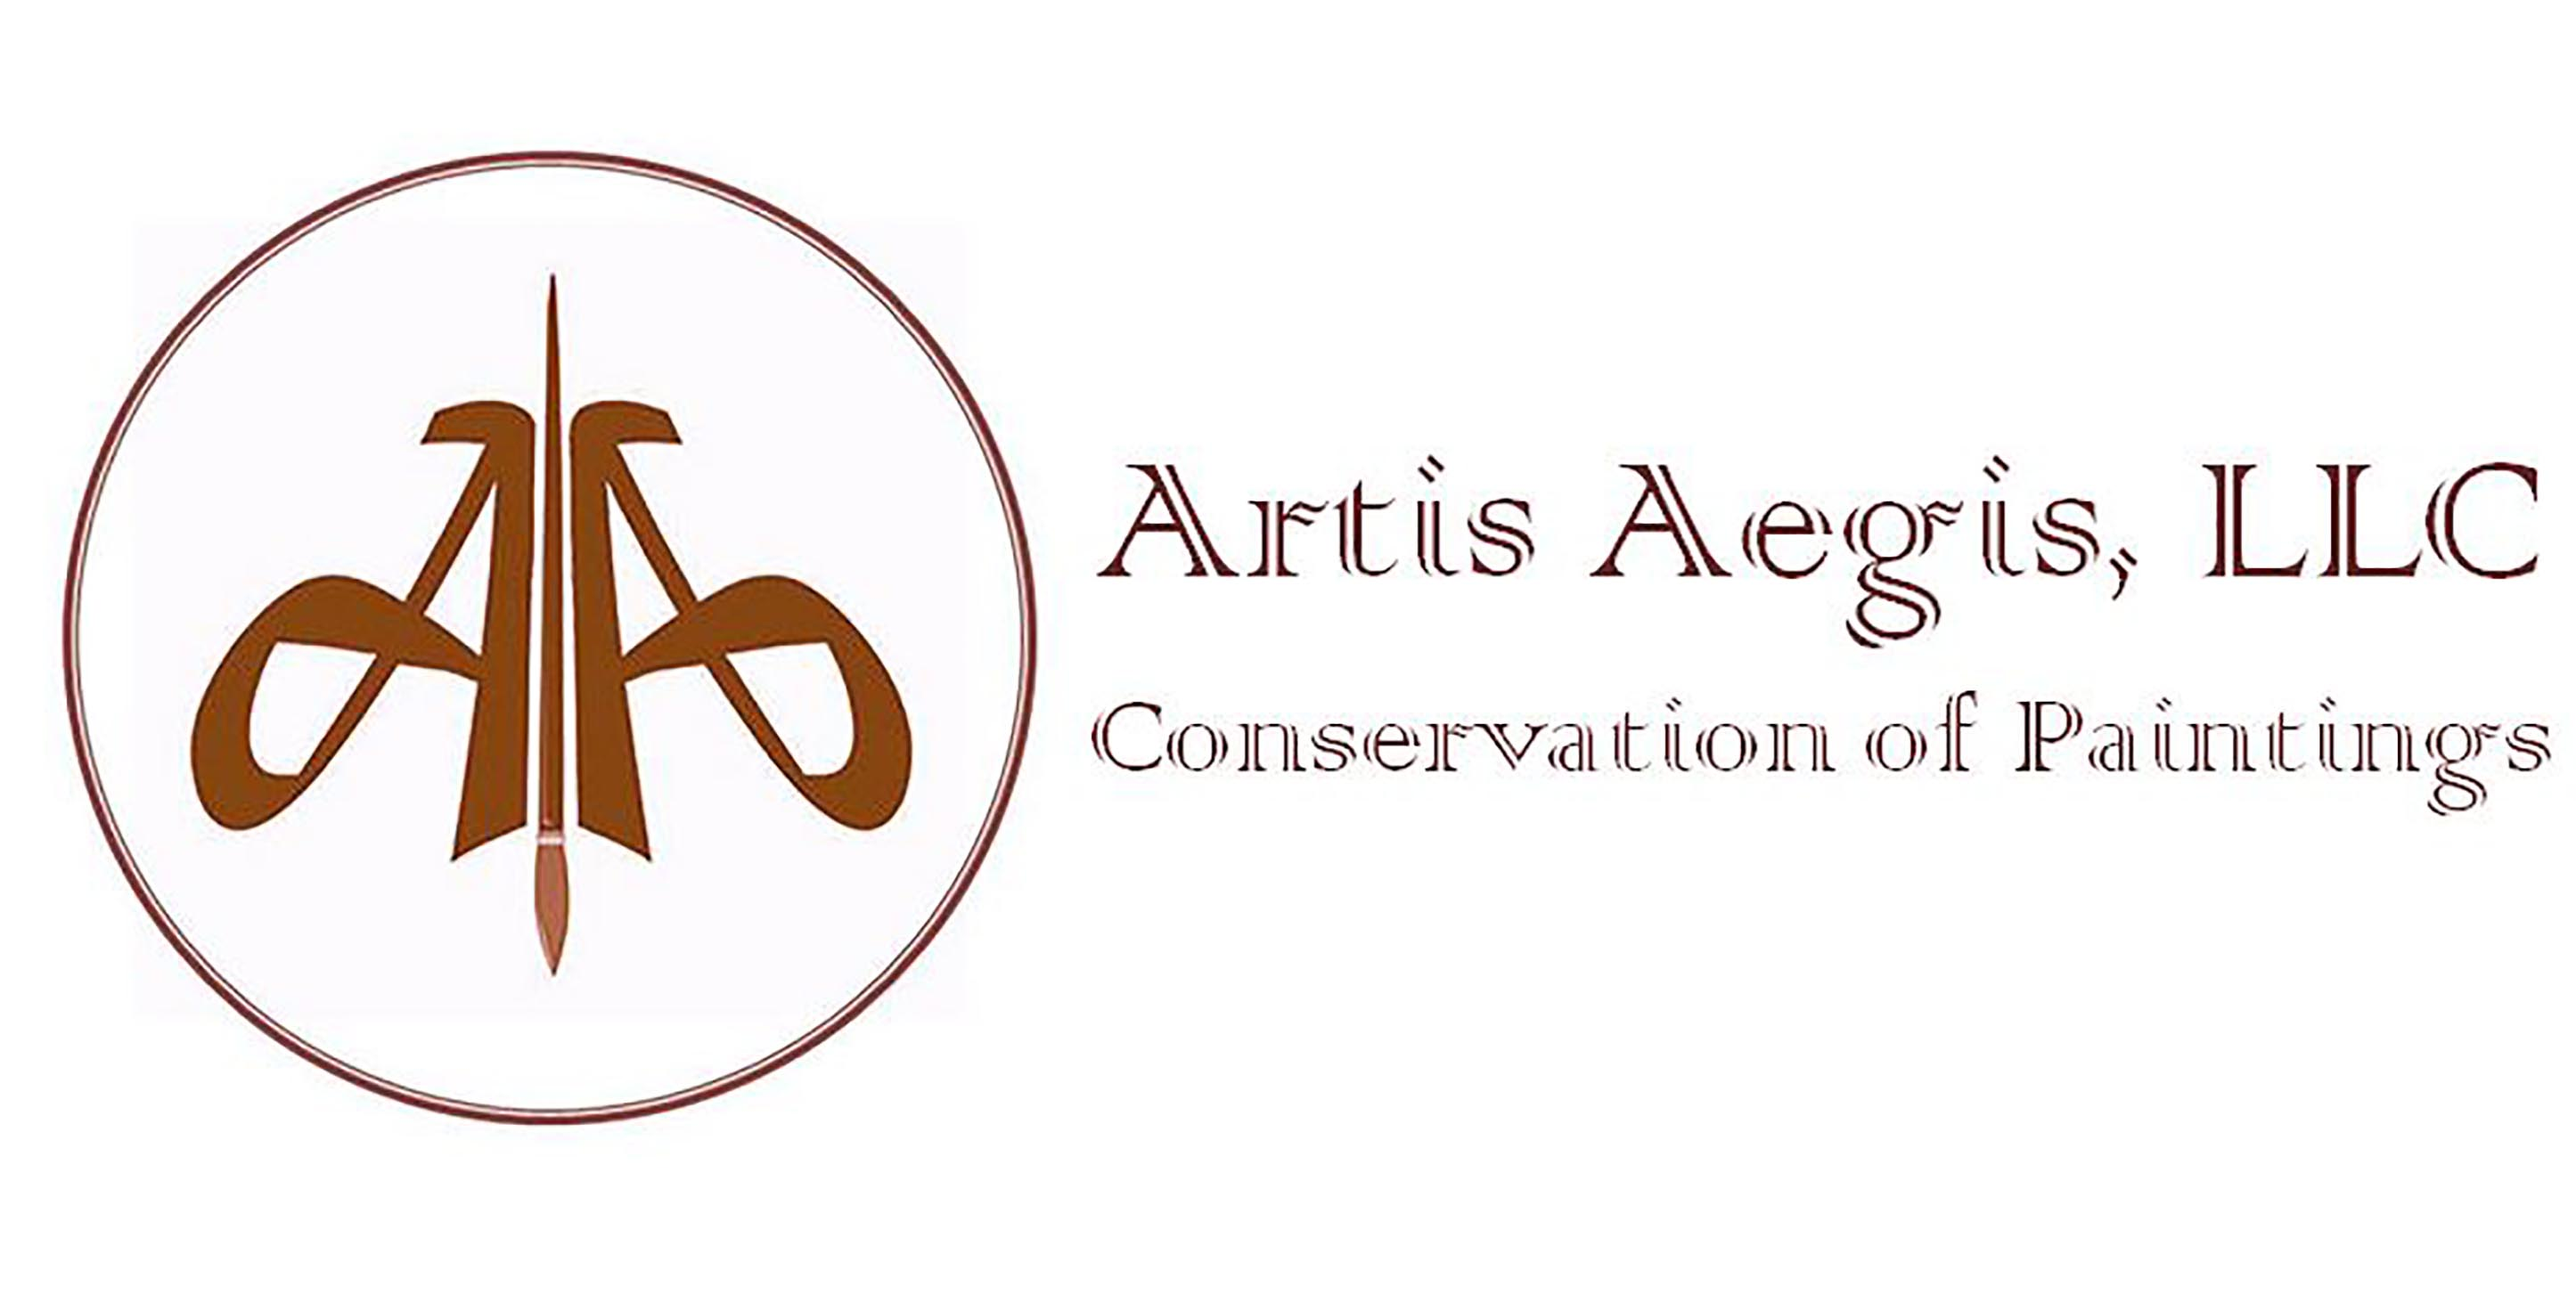
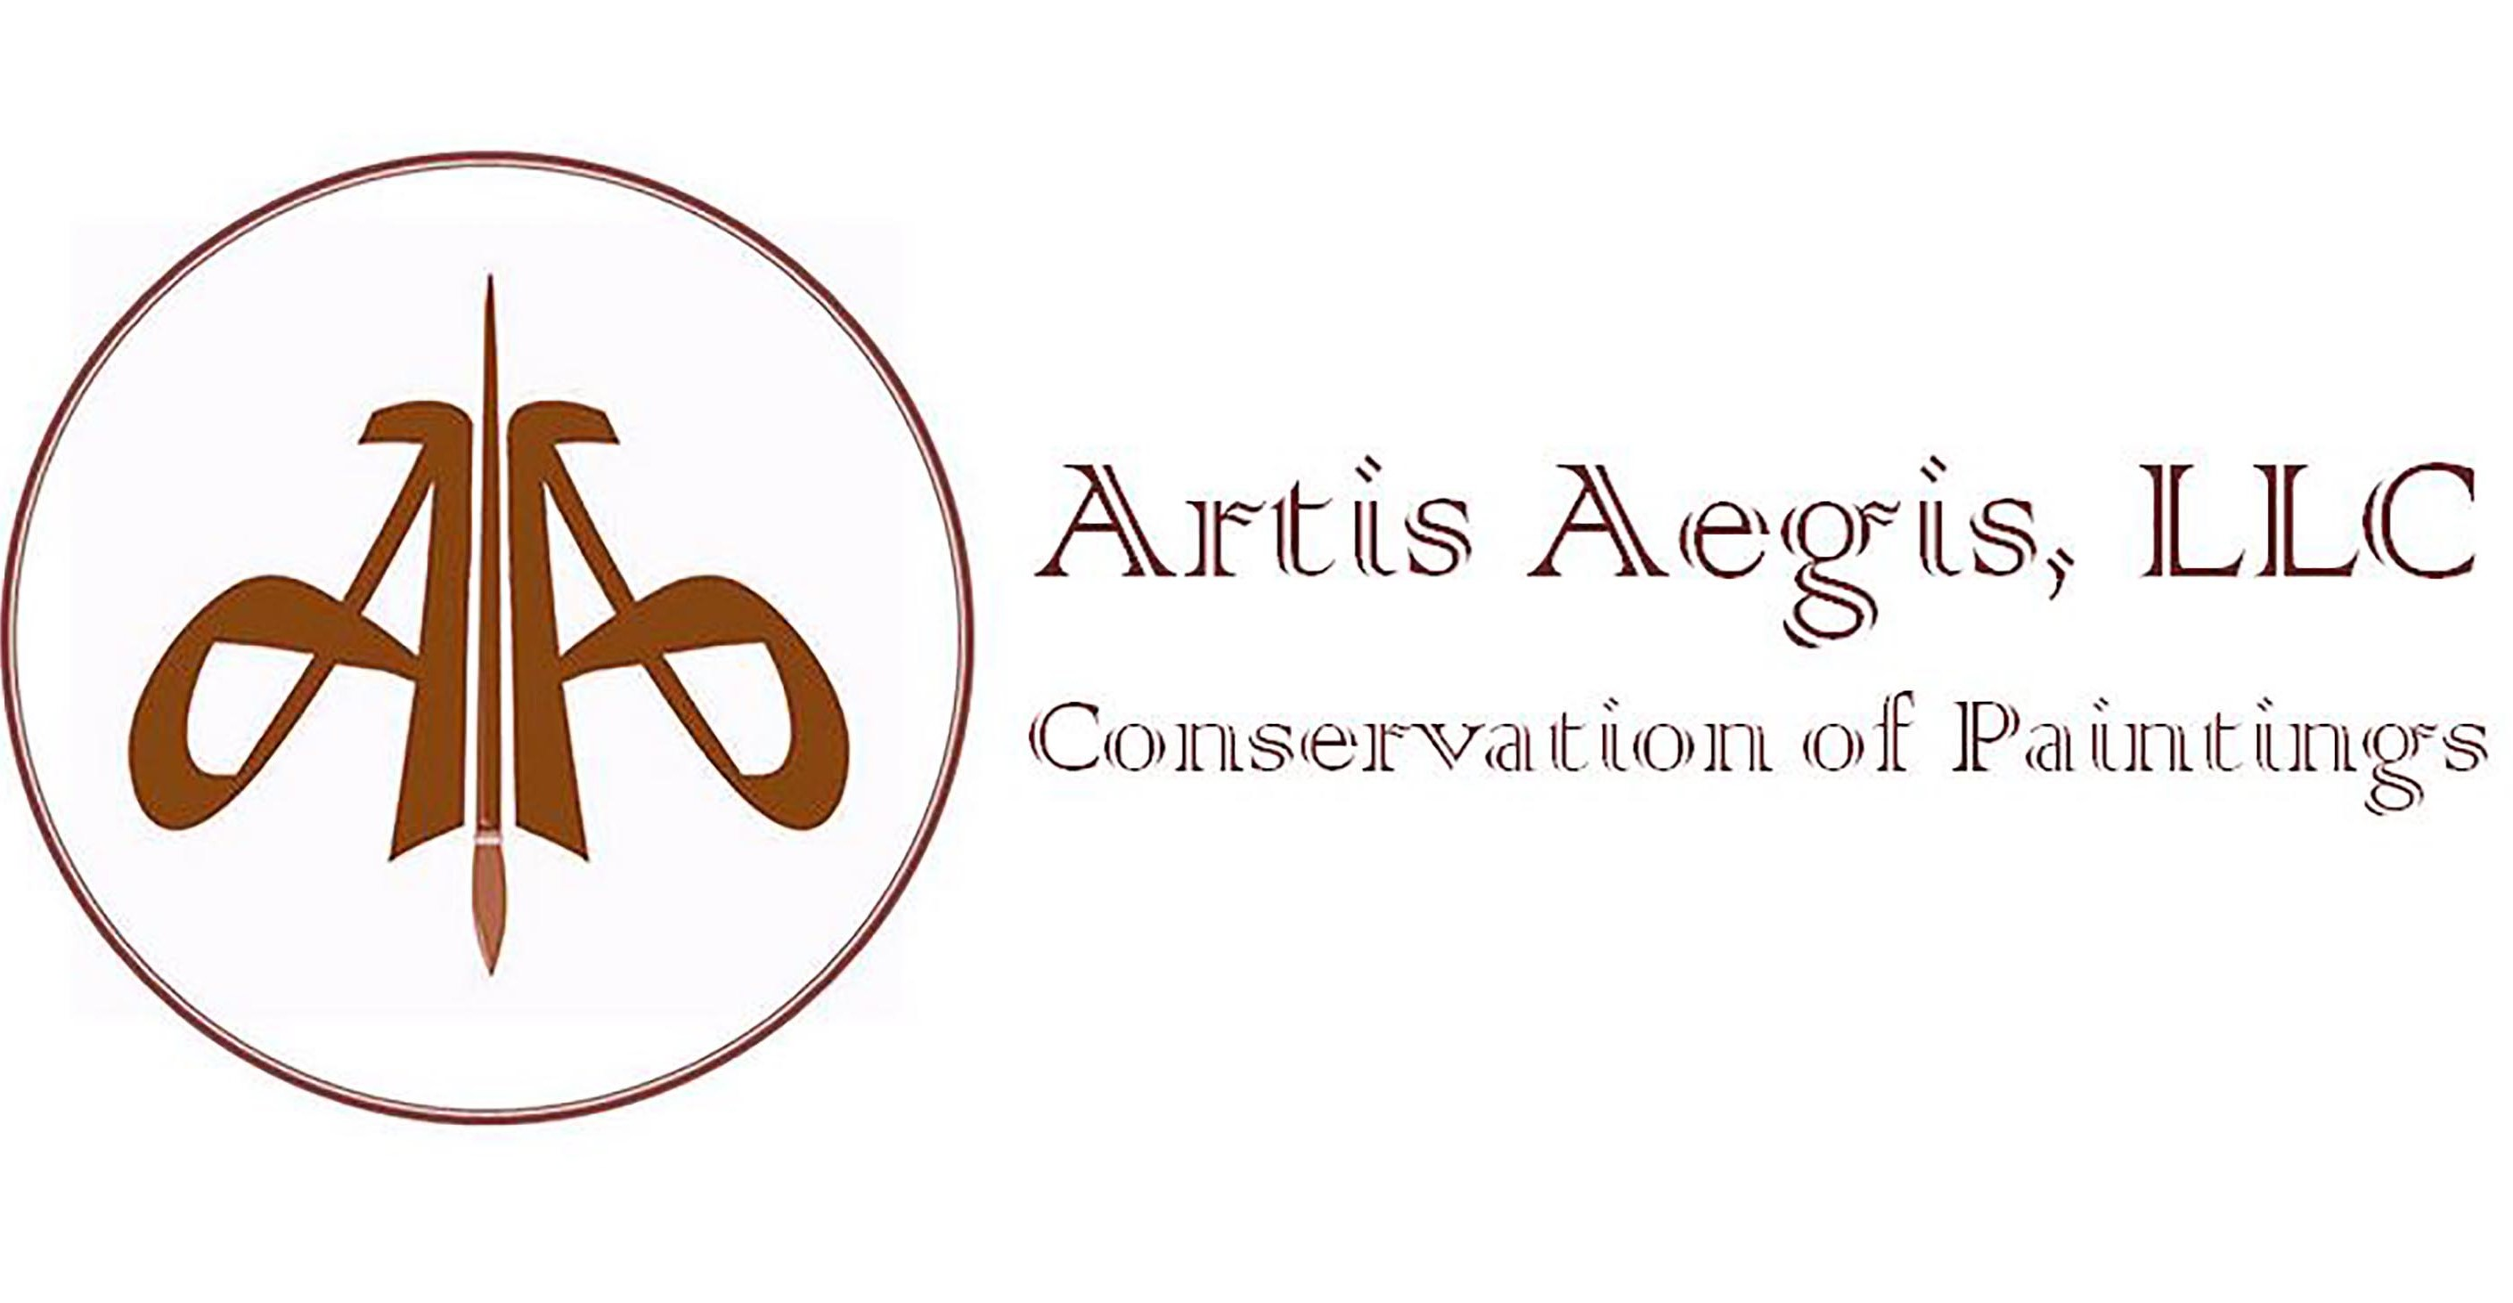
Subir imagen

Changed region(s): [[0.0, 0.0923, 0.9982, 0.8612]]

diff --git a/index.html b/index.html
@@ -15,7 +15,7 @@
 
 	<script src="https://maxcdn.bootstrapcdn.com/bootstrap/3.3.7/js/bootstrap.min.js" integrity="sha384-Tc5IQib027qvyjSMfHjOMaLkfuWVxZxUPnCJA7l2mCWNIpG9mGCD8wGNIcPD7Txa" crossorigin="anonymous"></script>
 
-	<link rel="icon" type="image/png" href="/css/imgs/logo.JPG">
+	<link rel="icon" type="image/png" href="./css/imgs/logo.JPG">
 	<title>Artis Aegis</title>
 </head>
 <body>
@@ -37,11 +37,8 @@
 	</nav>
 	<div class="container">
 			<div class="home">
-				<div class="welcome">
-					<h2 class="tituloHome titulo">Welcome to Artis Aegis</h2>
-				</div>
 				<div class="logo">
-					<img src="/css/imgs/HomeLog.JPG" class="img-responsive img-rounded imglogo"/>
+					<img src="./css/imgs/HomeLog.JPG" class="img-responsive img-rounded imglogo"/>
 				</div>
 			</div>
 	</div>

diff --git a/css/style.css b/css/style.css
@@ -1,31 +1,21 @@
 .titulo{
 	color: black;
 	font-family: Colonna;
+	font-size: 35px;
 }
 .subtitulo{
 	color:rgb(119,119,119);
 }
-.home{
-	display: inline-block;
-	width:100%;
-	height:1000px;
-}
-.welcome{
-	float: left;
-	max-width:50%;
-	text-align: center;
-	font-size: 50px;
-}
 .logo{
-	float: right;
-	max-width: 50%;
 	text-align: center;
-	height: 100%;
+	width: 100%;
+}
+.container{
+	text-align: center;
 }
 .imglogo{
-	max-height:20%;
+	height:500px;
 }
-
 @font-face {
     font-family: Colonna;
     src: url(../font/cgzeppelin_regular.ttf);
